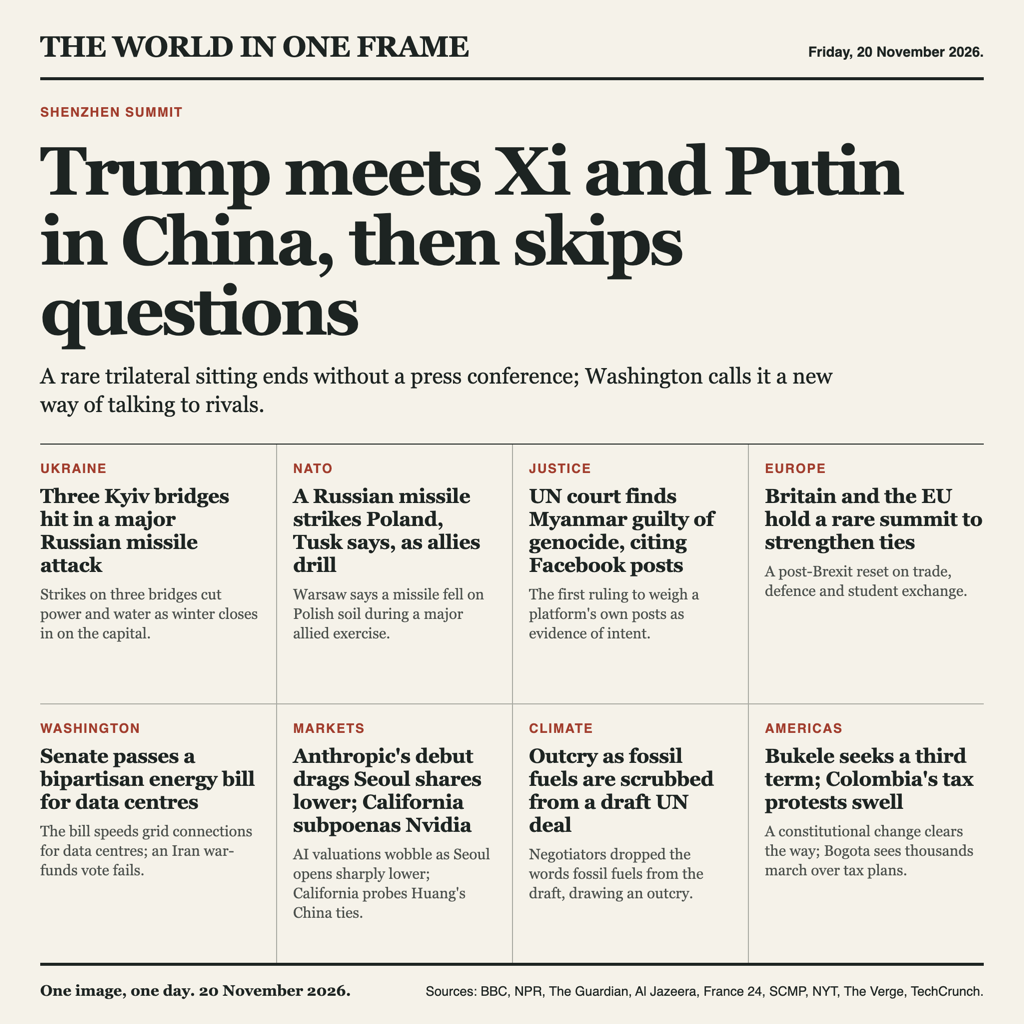
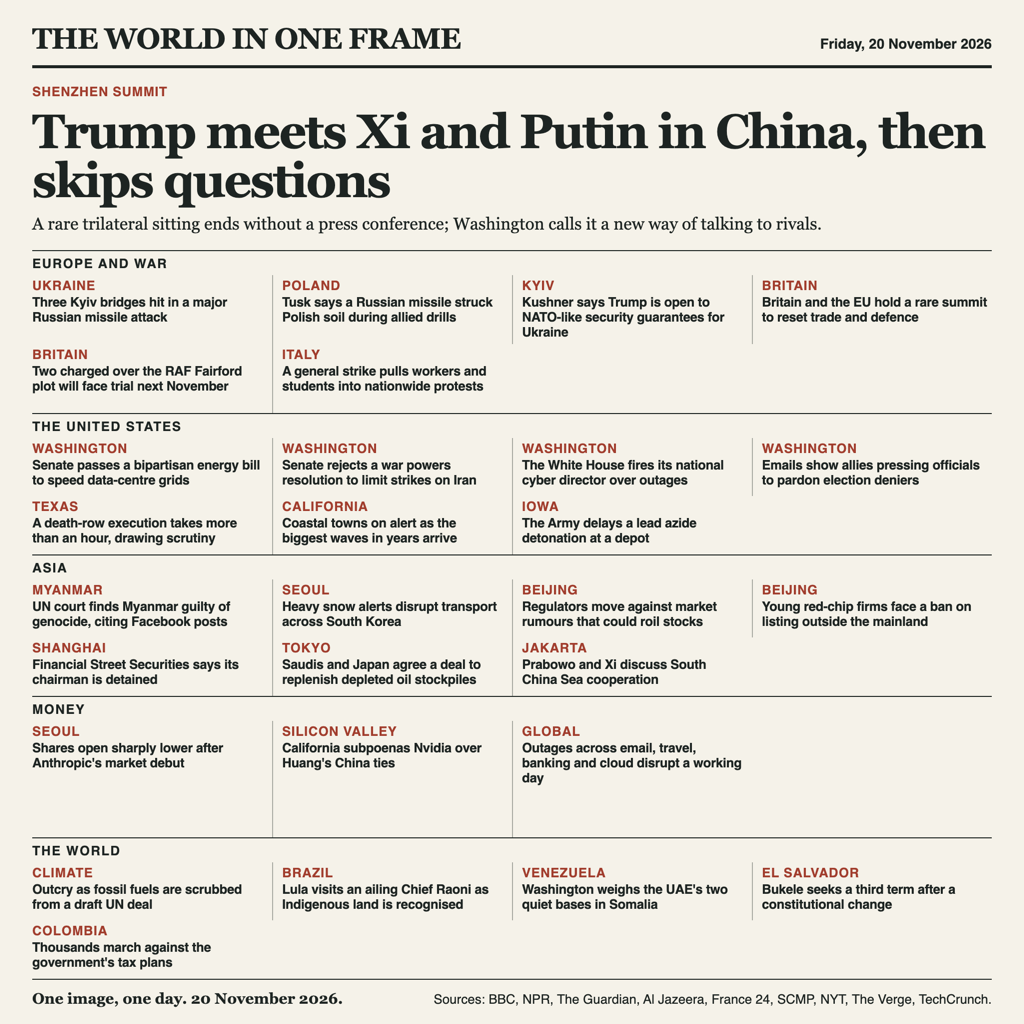
Dense front page: twenty-nine stories

Changed region(s): [[0.0312, 0.0, 0.9688, 1.0], [0.7188, 0.6562, 0.75, 0.6875]]

diff --git a/poster.html b/poster.html
@@ -8,22 +8,23 @@
   * { box-sizing: border-box; }
   html, body { margin: 0; width: 1024px; height: 1024px; }
   body { background: #f5f2e9; color: #1d2422; font-family: Helvetica, Arial, sans-serif; font-variant-numeric: tabular-nums; }
-  .page { width: 1024px; height: 1024px; padding: 32px 40px 24px; display: flex; flex-direction: column; }
-  .masthead { display: flex; align-items: baseline; justify-content: space-between; border-bottom: 3px solid #1d2422; padding-bottom: 16px; }
+  .page { width: 1024px; height: 1024px; padding: 24px 32px 16px; display: flex; flex-direction: column; }
+  .masthead { display: flex; align-items: baseline; justify-content: space-between; border-bottom: 3px solid #1d2422; padding-bottom: 12px; }
   .name { margin: 0; font: bold 29px/1 Georgia, 'Times New Roman', serif; letter-spacing: -0.6px; }
   .date { margin: 0; font-size: 14px; font-weight: bold; white-space: nowrap; }
-  .lead { padding: 24px 0 24px; border-bottom: 1px solid #1d2422; }
-  .kicker { margin: 0; color: #a13d2d; font-size: 13px; line-height: 16px; font-weight: bold; letter-spacing: 1.1px; }
-  h1 { max-width: 920px; margin: 16px 0; font: bold 68px/1.03 Georgia, 'Times New Roman', serif; letter-spacing: -2.5px; }
-  .deck { max-width: 820px; margin: 0; font: 22px/1.3 Georgia, 'Times New Roman', serif; }
-  .grid { display: grid; grid-template-columns: repeat(4, 1fr); grid-template-rows: repeat(2, 1fr); flex: 1; border-bottom: 3px solid #1d2422; }
-  .story { padding: 16px 16px 12px; border-left: 1px solid #a9aaa2; }
-  .story:nth-child(4n + 1) { border-left: 0; padding-left: 0; }
-  .story:nth-child(4n) { padding-right: 0; }
-  .story:nth-child(n + 5) { border-top: 1px solid #a9aaa2; }
-  .story h2 { margin: 8px 0 0; font: bold 20px/1.15 Georgia, 'Times New Roman', serif; letter-spacing: -0.25px; }
-  .story-deck { margin: 8px 0 0; color: #1d2422; opacity: 0.78; font: 15px/1.3 Georgia, 'Times New Roman', serif; }
-  footer { display: flex; justify-content: space-between; align-items: baseline; gap: 16px; padding-top: 16px; }
+  .lead { padding: 16px 0; border-bottom: 1px solid #1d2422; }
+  .lead-kicker, .kicker { margin: 0; color: #a13d2d; font-size: 13px; line-height: 15px; font-weight: bold; letter-spacing: 0.6px; }
+  h1 { margin: 8px 0; font: bold 48px/1.02 Georgia, 'Times New Roman', serif; letter-spacing: -1.5px; }
+  .deck { margin: 0; font: 17px/1.25 Georgia, 'Times New Roman', serif; }
+  .sections { flex: 1; display: flex; flex-direction: column; }
+  .section { flex: 1; display: flex; flex-direction: column; border-bottom: 1px solid #1d2422; }
+  .section-title { margin: 0; padding: 5px 0 4px; font-size: 13px; line-height: 15px; letter-spacing: 1.1px; }
+  .briefs { flex: 1; display: grid; grid-template-columns: repeat(4, 1fr); grid-auto-rows: 1fr; }
+  .brief { padding: 3px 9px 4px; border-left: 1px solid #a9aaa2; }
+  .brief:nth-child(4n + 1) { border-left: 0; padding-left: 0; }
+  .brief:nth-child(4n) { padding-right: 0; }
+  .brief h3 { margin: 2px 0 0; font: bold 13px/1.15 Helvetica, Arial, sans-serif; letter-spacing: -0.2px; }
+  footer { display: flex; justify-content: space-between; align-items: baseline; gap: 16px; padding-top: 10px; }
   .footer-day { margin: 0; font: bold 15px/1.2 Georgia, 'Times New Roman', serif; white-space: nowrap; }
   .sources { margin: 0; font-size: 13px; line-height: 1.2; text-align: right; }
 </style>
@@ -32,23 +33,68 @@
 <main class="page">
   <header class="masthead">
     <p class="name">THE WORLD IN ONE FRAME</p>
-    <p class="date">Friday, 20 November 2026.</p>
+    <p class="date">Friday, 20 November 2026</p>
   </header>
   <section class="lead">
-    <p class="kicker">SHENZHEN SUMMIT</p>
+    <p class="lead-kicker">SHENZHEN SUMMIT</p>
     <h1>Trump meets Xi and Putin in China, then skips questions</h1>
     <p class="deck">A rare trilateral sitting ends without a press conference; Washington calls it a new way of talking to rivals.</p>
   </section>
-  <section class="grid" aria-label="More news">
-    <article class="story"><p class="kicker">UKRAINE</p><h2>Three Kyiv bridges hit in a major Russian missile attack</h2><p class="story-deck">Strikes on three bridges cut power and water as winter closes in on the capital.</p></article>
-    <article class="story"><p class="kicker">NATO</p><h2>A Russian missile strikes Poland, Tusk says, as allies drill</h2><p class="story-deck">Warsaw says a missile fell on Polish soil during a major allied exercise.</p></article>
-    <article class="story"><p class="kicker">JUSTICE</p><h2>UN court finds Myanmar guilty of genocide, citing Facebook posts</h2><p class="story-deck">The first ruling to weigh a platform's own posts as evidence of intent.</p></article>
-    <article class="story"><p class="kicker">EUROPE</p><h2>Britain and the EU hold a rare summit to strengthen ties</h2><p class="story-deck">A post-Brexit reset on trade, defence and student exchange.</p></article>
-    <article class="story"><p class="kicker">WASHINGTON</p><h2>Senate passes a bipartisan energy bill for data centres</h2><p class="story-deck">The bill speeds grid connections for data centres; an Iran war-funds vote fails.</p></article>
-    <article class="story"><p class="kicker">MARKETS</p><h2>Anthropic's debut drags Seoul shares lower; California subpoenas Nvidia</h2><p class="story-deck">AI valuations wobble as Seoul opens sharply lower; California probes Huang's China ties.</p></article>
-    <article class="story"><p class="kicker">CLIMATE</p><h2>Outcry as fossil fuels are scrubbed from a draft UN deal</h2><p class="story-deck">Negotiators dropped the words fossil fuels from the draft, drawing an outcry.</p></article>
-    <article class="story"><p class="kicker">AMERICAS</p><h2>Bukele seeks a third term; Colombia's tax protests swell</h2><p class="story-deck">A constitutional change clears the way; Bogota sees thousands march over tax plans.</p></article>
-  </section>
+  <div class="sections">
+    <section class="section">
+      <h2 class="section-title">EUROPE AND WAR</h2>
+      <div class="briefs">
+        <article class="brief"><p class="kicker">UKRAINE</p><h3>Three Kyiv bridges hit in a major Russian missile attack</h3></article>
+        <article class="brief"><p class="kicker">POLAND</p><h3>Tusk says a Russian missile struck Polish soil during allied drills</h3></article>
+        <article class="brief"><p class="kicker">KYIV</p><h3>Kushner says Trump is open to NATO-like security guarantees for Ukraine</h3></article>
+        <article class="brief"><p class="kicker">BRITAIN</p><h3>Britain and the EU hold a rare summit to reset trade and defence</h3></article>
+        <article class="brief"><p class="kicker">BRITAIN</p><h3>Two charged over the RAF Fairford plot will face trial next November</h3></article>
+        <article class="brief"><p class="kicker">ITALY</p><h3>A general strike pulls workers and students into nationwide protests</h3></article>
+      </div>
+    </section>
+    <section class="section">
+      <h2 class="section-title">THE UNITED STATES</h2>
+      <div class="briefs">
+        <article class="brief"><p class="kicker">WASHINGTON</p><h3>Senate passes a bipartisan energy bill to speed data-centre grids</h3></article>
+        <article class="brief"><p class="kicker">WASHINGTON</p><h3>Senate rejects a war powers resolution to limit strikes on Iran</h3></article>
+        <article class="brief"><p class="kicker">WASHINGTON</p><h3>The White House fires its national cyber director over outages</h3></article>
+        <article class="brief"><p class="kicker">WASHINGTON</p><h3>Emails show allies pressing officials to pardon election deniers</h3></article>
+        <article class="brief"><p class="kicker">TEXAS</p><h3>A death-row execution takes more than an hour, drawing scrutiny</h3></article>
+        <article class="brief"><p class="kicker">CALIFORNIA</p><h3>Coastal towns on alert as the biggest waves in years arrive</h3></article>
+        <article class="brief"><p class="kicker">IOWA</p><h3>The Army delays a lead azide detonation at a depot</h3></article>
+      </div>
+    </section>
+    <section class="section">
+      <h2 class="section-title">ASIA</h2>
+      <div class="briefs">
+        <article class="brief"><p class="kicker">MYANMAR</p><h3>UN court finds Myanmar guilty of genocide, citing Facebook posts</h3></article>
+        <article class="brief"><p class="kicker">SEOUL</p><h3>Heavy snow alerts disrupt transport across South Korea</h3></article>
+        <article class="brief"><p class="kicker">BEIJING</p><h3>Regulators move against market rumours that could roil stocks</h3></article>
+        <article class="brief"><p class="kicker">BEIJING</p><h3>Young red-chip firms face a ban on listing outside the mainland</h3></article>
+        <article class="brief"><p class="kicker">SHANGHAI</p><h3>Financial Street Securities says its chairman is detained</h3></article>
+        <article class="brief"><p class="kicker">TOKYO</p><h3>Saudis and Japan agree a deal to replenish depleted oil stockpiles</h3></article>
+        <article class="brief"><p class="kicker">JAKARTA</p><h3>Prabowo and Xi discuss South China Sea cooperation</h3></article>
+      </div>
+    </section>
+    <section class="section">
+      <h2 class="section-title">MONEY</h2>
+      <div class="briefs">
+        <article class="brief"><p class="kicker">SEOUL</p><h3>Shares open sharply lower after Anthropic's market debut</h3></article>
+        <article class="brief"><p class="kicker">SILICON VALLEY</p><h3>California subpoenas Nvidia over Huang's China ties</h3></article>
+        <article class="brief"><p class="kicker">GLOBAL</p><h3>Outages across email, travel, banking and cloud disrupt a working day</h3></article>
+      </div>
+    </section>
+    <section class="section">
+      <h2 class="section-title">THE WORLD</h2>
+      <div class="briefs">
+        <article class="brief"><p class="kicker">CLIMATE</p><h3>Outcry as fossil fuels are scrubbed from a draft UN deal</h3></article>
+        <article class="brief"><p class="kicker">BRAZIL</p><h3>Lula visits an ailing Chief Raoni as Indigenous land is recognised</h3></article>
+        <article class="brief"><p class="kicker">VENEZUELA</p><h3>Washington weighs the UAE's two quiet bases in Somalia</h3></article>
+        <article class="brief"><p class="kicker">EL SALVADOR</p><h3>Bukele seeks a third term after a constitutional change</h3></article>
+        <article class="brief"><p class="kicker">COLOMBIA</p><h3>Thousands march against the government's tax plans</h3></article>
+      </div>
+    </section>
+  </div>
   <footer>
     <p class="footer-day">One image, one day. 20 November 2026.</p>
     <p class="sources">Sources: BBC, NPR, The Guardian, Al Jazeera, France 24, SCMP, NYT, The Verge, TechCrunch.</p>
